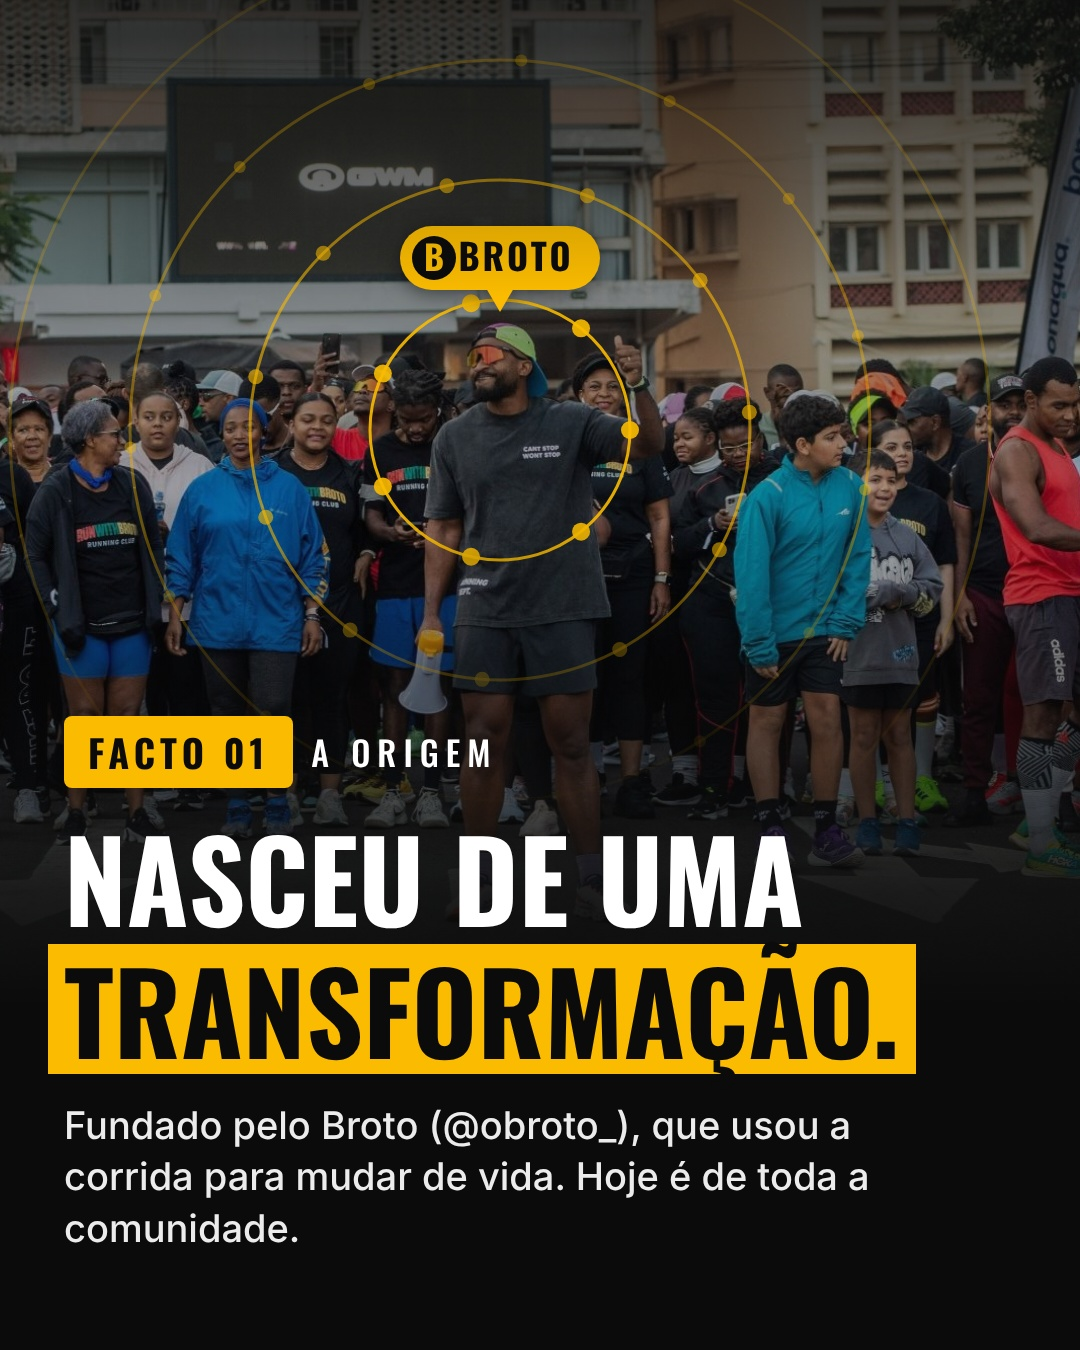
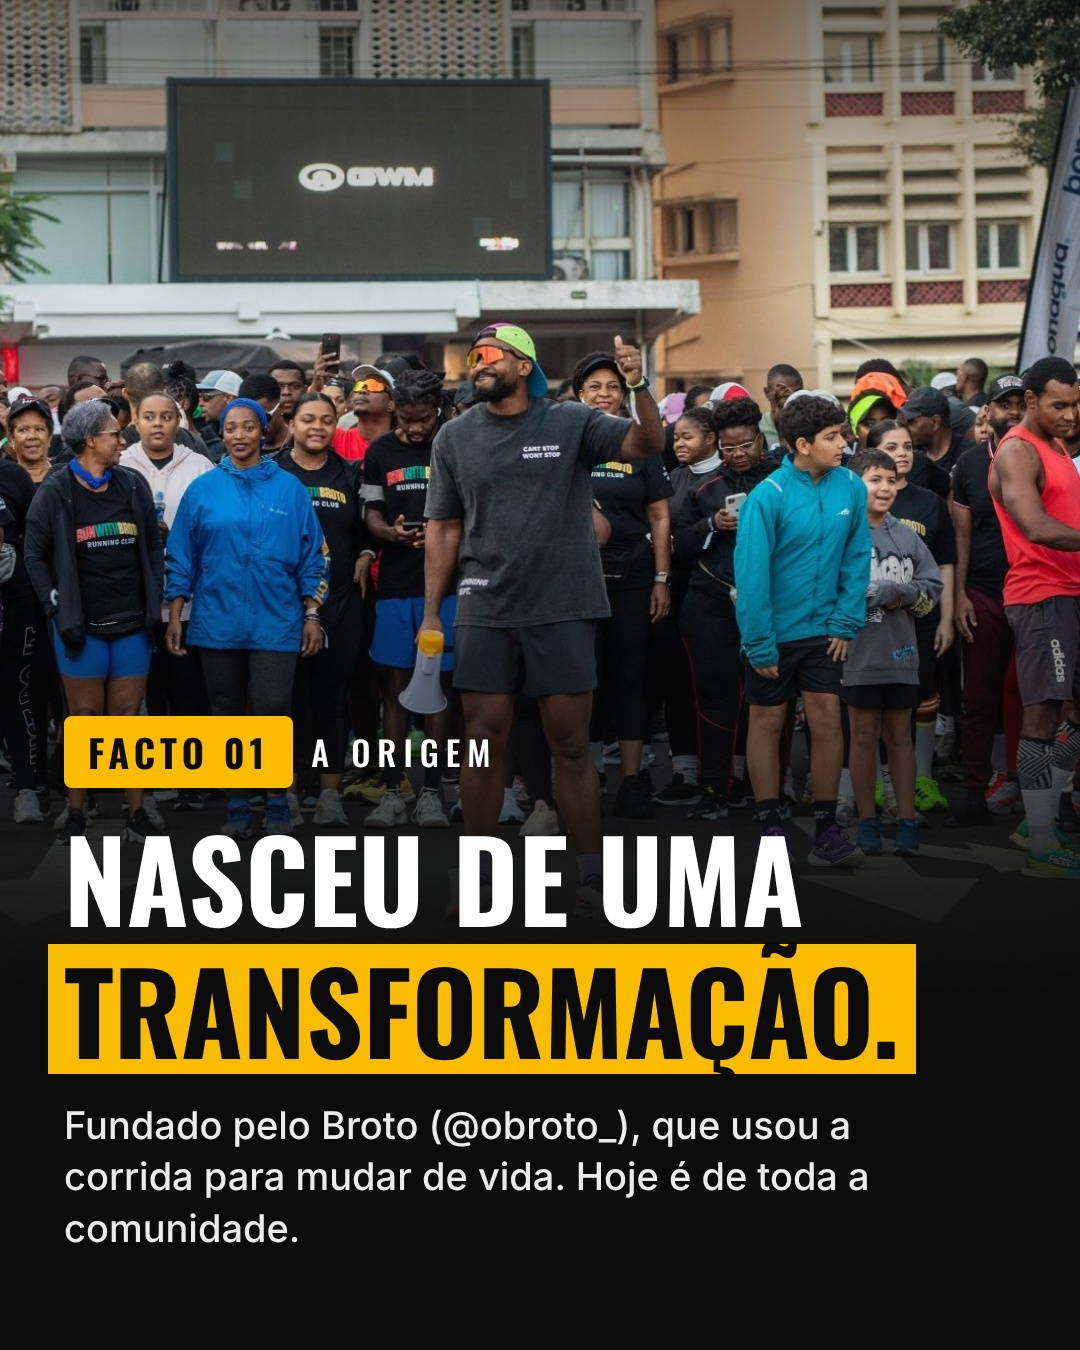
Carrossel: remove as artes dos factos 1 e 3; foto do facto 3 enquadrada para ver as mãos dadas
Claude-Session: https://claude.ai/code/session_01DkaCWGXuFd6yQ1MSFtQr7D

diff --git a/src/Carousel.tsx b/src/Carousel.tsx
@@ -233,51 +233,6 @@ const LedNumber: React.FC<{text: string; accent: string}> = ({text, accent}) => 
   );
 };
 
-/** Facto 1: a jornada de uma pessoa (Broto) espalha-se em anéis pela comunidade. */
-const OriginArt: React.FC<{accent: string}> = ({accent}) => {
-  const C = {x: 500, y: 430}; // posição do Broto na foto
-  const RINGS = [{r: 130, n: 7, o: 0.9}, {r: 250, n: 11, o: 0.6}, {r: 370, n: 15, o: 0.38}, {r: 490, n: 0, o: 0.22}];
-  return (
-    <svg width="1080" height="1350" viewBox="0 0 1080 1350" style={{position: "absolute", left: 0, top: 0,
-      WebkitMaskImage: "linear-gradient(180deg, #000 40%, transparent 62%)"}}>
-      {RINGS.map((g, k) => (
-        <g key={k}>
-          <circle cx={C.x} cy={C.y} r={g.r} fill="none" stroke={accent} strokeWidth="3" opacity={g.o} />
-          {new Array(g.n).fill(0).map((_, i) => {
-            const t = (i / g.n) * Math.PI * 2 + k * 0.5;
-            return <circle key={i} cx={C.x + g.r * Math.cos(t)} cy={C.y + g.r * Math.sin(t)} r={9 - k * 1.5} fill={accent} opacity={g.o} />;
-          })}
-        </g>
-      ))}
-      {/* etiqueta sobre a cabeça */}
-      <g filter="drop-shadow(0 4px 10px rgba(0,0,0,0.5))">
-        <rect x={C.x - 100} y={226} width="200" height="64" rx="32" fill={accent} />
-        <polygon points={`${C.x - 14},288 ${C.x + 14},288 ${C.x},312`} fill={accent} />
-        <circle cx={C.x - 66} cy={258} r="22" fill={INK} />
-        <text x={C.x - 66} y={271} textAnchor="middle" fontFamily={OSWALD} fontWeight={700} fontSize="34" fill={accent}>B</text>
-        <text x={C.x + 16} y={271} textAnchor="middle" fontFamily={OSWALD} fontWeight={700} fontSize="36" letterSpacing="3" fill={INK}>BROTO</text>
-      </g>
-    </svg>
-  );
-};
-
-/** Facto 3: o grupo segue junto e quem ficou atrás é puxado para a frente. */
-const PackArt: React.FC<{accent: string}> = ({accent}) => (
-  <svg width="952" height="300" viewBox="0 0 952 300" style={{position: "absolute", left: PAD, top: 48, filter: "drop-shadow(0 3px 8px rgba(0,0,0,0.6))"}}>
-    <line x1="20" y1="206" x2="932" y2="206" stroke="#fff" strokeWidth="5" strokeLinecap="round" strokeDasharray="1 18" opacity="0.5" />
-    {[0, 1, 2].map((i) => <line key={i} x1={380 + i * 8} y1={140 + i * 20} x2={500 + i * 8} y2={140 + i * 20} stroke="#fff" strokeWidth="6" strokeLinecap="round" opacity={0.55 - i * 0.14} />)}
-    {[0, 1, 2, 3, 4].map((i) => (
-      <g key={i}>
-        <circle cx={560 + i * 84} cy="162" r="32" fill={accent} />
-        <circle cx={560 + i * 84 - 9} cy="152" r="9" fill="#fff" opacity="0.6" />
-      </g>
-    ))}
-    <circle cx="120" cy="162" r="32" fill="#fff" stroke={accent} strokeWidth="9" />
-    <path d="M152,140 Q330,30 520,142" fill="none" stroke="#fff" strokeWidth="6" strokeLinecap="round" strokeDasharray="1 17" />
-    <polygon points="520,124 548,148 512,162" fill="#fff" transform="rotate(-6 520 144)" />
-  </svg>
-);
-
 const Fact: React.FC<{s: FactSlide}> = ({s}) => {
   const lines = s.title.split("\n");
   const stat = s.stat;
@@ -286,11 +241,9 @@ const Fact: React.FC<{s: FactSlide}> = ({s}) => {
       <Img src={staticFile(s.photo)} style={{width: "100%", height: "100%", objectFit: "cover", objectPosition: s.pos, transform: s.shift ? `translateY(${-s.shift}px)` : undefined, WebkitMaskImage: s.shift ? (s.shift > 0 ? `linear-gradient(180deg, #000 ${1350 - s.shift - 200}px, transparent ${1350 - s.shift}px)` : `linear-gradient(180deg, transparent ${-s.shift}px, #000 ${-s.shift + 220}px)`) : undefined, filter: s.cut ? "blur(4px) brightness(0.8)" : s.night ? "brightness(0.55) saturate(0.7) contrast(1.1)" : undefined}} />
       {s.night && <AbsoluteFill style={{background: "linear-gradient(180deg, rgba(8,24,70,0.78) 0%, rgba(14,40,110,0.45) 100%)", mixBlendMode: "multiply"}} />}
       {s.night && <Moon />}
-      {s.diagram && s.diagram !== "pack" && <AbsoluteFill style={{background: s.diagram === "night" ? "linear-gradient(180deg, rgba(8,14,36,0.9) 0%, rgba(8,14,36,0.75) 21%, rgba(8,14,36,0) 36%)" : "linear-gradient(180deg, rgba(11,11,11,0.65) 0%, rgba(11,11,11,0.2) 45%, rgba(11,11,11,0) 100%)"}} />}
+      {s.diagram && <AbsoluteFill style={{background: s.diagram === "night" ? "linear-gradient(180deg, rgba(8,14,36,0.9) 0%, rgba(8,14,36,0.75) 21%, rgba(8,14,36,0) 36%)" : "linear-gradient(180deg, rgba(11,11,11,0.65) 0%, rgba(11,11,11,0.2) 45%, rgba(11,11,11,0) 100%)"}} />}
       {s.diagram === "hybrid" && <HybridDiagram />}
       {s.diagram === "night" && <NightArt accent={s.accent} />}
-      {s.diagram === "origin" && <OriginArt accent={s.accent} />}
-      {s.diagram === "pack" && <PackArt accent={s.accent} />}
       {s.cut && (
         <div style={{position: "absolute", left: 0, right: 0, top: 120, textAlign: "center", fontFamily: OSWALD, fontWeight: 700, fontSize: 760, lineHeight: 1, color: s.accent, opacity: 0.95}}>
           {s.kicker.slice(-2)}

diff --git a/src/carousel.ts b/src/carousel.ts
@@ -7,21 +7,21 @@ export const HANDLE = "@runwithbroto_";
 
 export type FactSlide = {
   kind: "fact"; kicker: string; chapter: string; title: string; body: string; photo: string; cut?: string; pos: string;
-  accent: string; night?: boolean; shift?: number; diagram?: "hybrid" | "night" | "origin" | "pack"; stat?: {text: string; stamp?: boolean; led?: boolean};
+  accent: string; night?: boolean; shift?: number; diagram?: "hybrid" | "night"; stat?: {text: string; stamp?: boolean; led?: boolean};
 };
 export type Slide = {kind: "cover"; prompt: string; photo: string; pos: string} | FactSlide | {kind: "cta"};
 
 const BRAND = "#fabb00";
 // foto / recorte / enquadramento de cada facto (mesma ordem de FACTS em facts.ts)
 const LOOK = [
-  {pos: "49% 50%", shift: 170, diagram: "origin"}, {pos: "28% 50%"}, {pos: "50% 25%", shift: -170, diagram: "pack"}, {pos: "50% 0%", shift: 290, diagram: "night"}, {pos: "50% 60%", diagram: "hybrid"}, {pos: "50% 50%"}, {pos: "50% 40%"}, {pos: "50% 0%"},
+  {pos: "49% 50%", shift: 170}, {pos: "28% 50%"}, {pos: "50% 60%"}, {pos: "50% 0%", shift: 290, diagram: "night"}, {pos: "50% 60%", diagram: "hybrid"}, {pos: "50% 50%"}, {pos: "50% 40%"}, {pos: "50% 0%"},
 ];
 const STAT = [undefined, undefined, undefined, undefined, undefined, {text: "+2500", led: true}, {text: "+1 000"}, {text: "25 JUN", stamp: true}];
 
 export const SLIDES: Slide[] = [
   {kind: "cover", prompt: PROMPT, photo: "photos/cover.jpg", pos: "50% 0%"},
   ...FACTS.map((f, i): FactSlide => ({
-    kind: "fact", kicker: f.kicker, chapter: f.chapter, title: f.title, body: f.body, photo: f.photo, cut: f.cut, pos: LOOK[i].pos, night: (LOOK[i] as {night?: boolean}).night, shift: (LOOK[i] as {shift?: number}).shift, diagram: (LOOK[i] as {diagram?: "hybrid" | "night" | "origin" | "pack"}).diagram,
+    kind: "fact", kicker: f.kicker, chapter: f.chapter, title: f.title, body: f.body, photo: f.photo, cut: f.cut, pos: LOOK[i].pos, night: (LOOK[i] as {night?: boolean}).night, shift: (LOOK[i] as {shift?: number}).shift, diagram: (LOOK[i] as {diagram?: "hybrid" | "night"}).diagram,
     accent: f.accent ?? BRAND, stat: STAT[i],
   })),
   {kind: "cta"},
